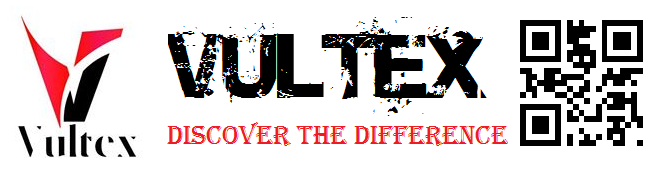
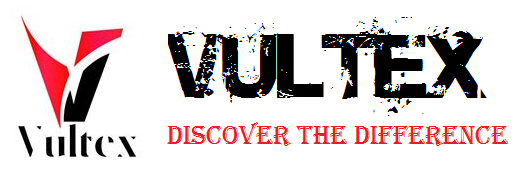
changed cover + added google analatics

diff --git a/resources/views/master.blade.php b/resources/views/master.blade.php
@@ -41,6 +41,9 @@
     <link rel="image_src" href="{{ $image_src or null }}" / >
     <meta name="description" content="{{ $description or null }}" />
 
+    <!-- Google meta tags -->
+    <meta name="google-site-verification" content="jSLtfVRylTbydr1T49mTOFPccryKNpHnKhTPfDlGFGw" />
+
 </head>
 <body>
     @include('_scripts')
